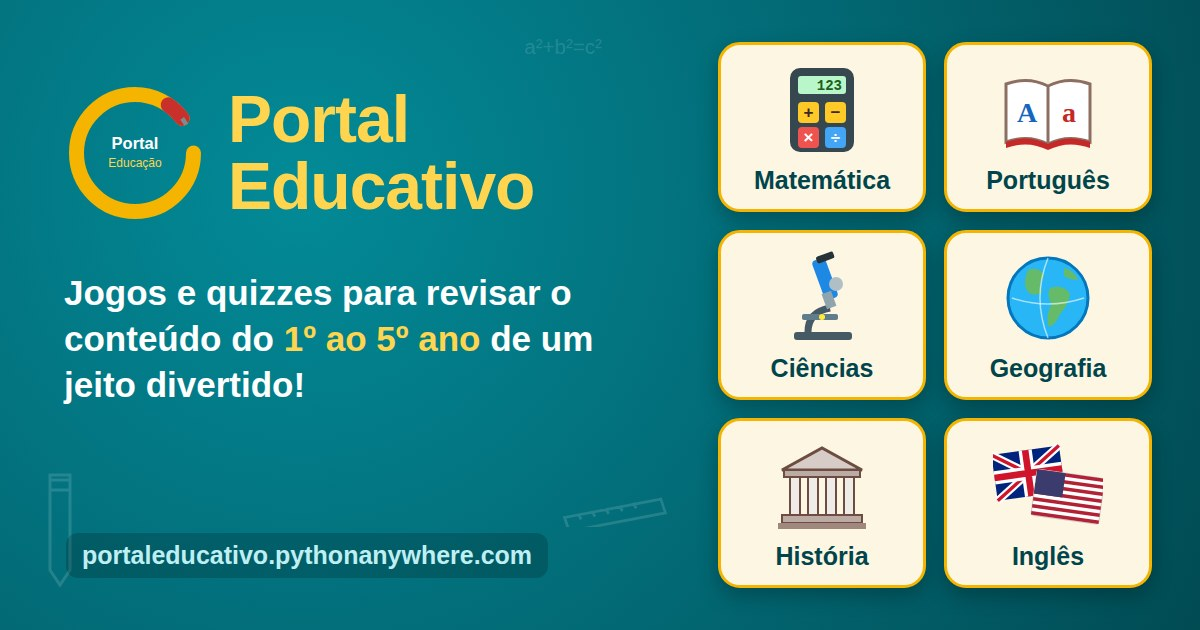
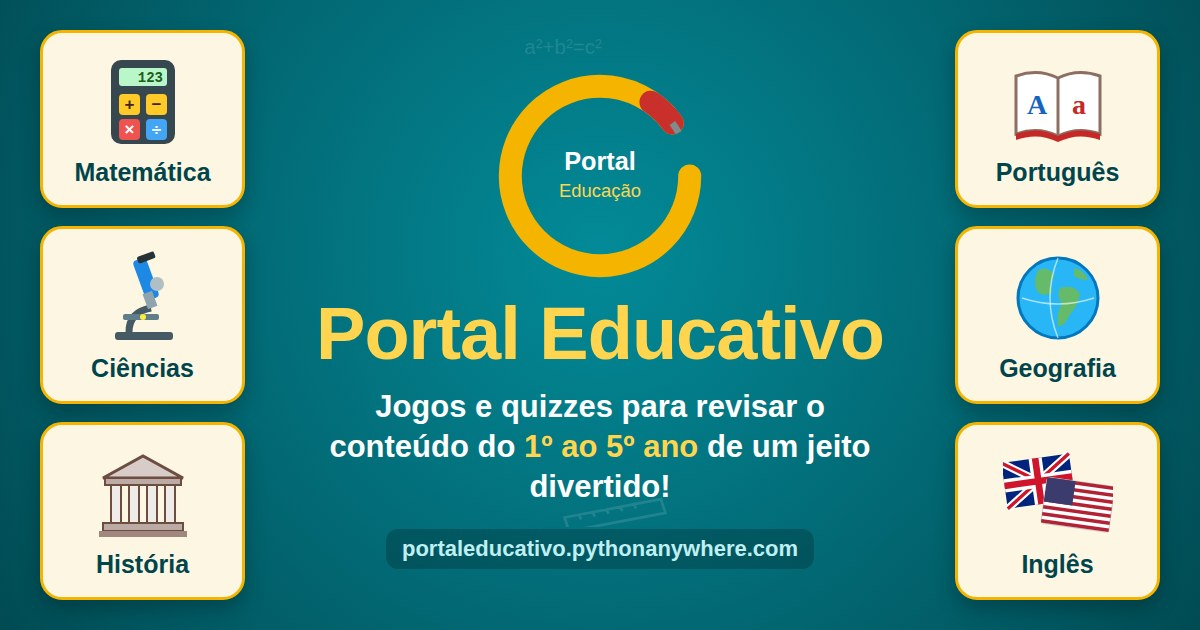
Cartao do WhatsApp: simbolo e nome no centro

diff --git a/core/templates/login.html b/core/templates/login.html
@@ -6,13 +6,16 @@
     <meta name="viewport" content="width=device-width, initial-scale=1.0">
     <title>Portal de Educação - Login</title>
     <meta name="description" content="Jogos e quizzes para revisar o conteúdo do 1º ao 5º ano: Matemática, Português, Ciências, Geografia, História e Inglês.">
-    <!-- Cartão de pré-visualização do link (WhatsApp, Facebook, Telegram...) -->
+    <!-- Cartão de pré-visualização do link (WhatsApp, Facebook, Telegram...)
+         Imagem atual: preview_whatsapp.jpg (símbolo e nome no centro).
+         Para voltar ao modelo anterior (símbolo à esquerda, matérias à direita),
+         troque 'img/preview_whatsapp.jpg' por 'img/preview_whatsapp_modelo1.jpg' na linha og:image. -->
     <meta property="og:type" content="website">
     <meta property="og:site_name" content="Portal Educativo">
     <meta property="og:title" content="Portal Educativo 🎮📚 — Jogos e quizzes do 1º ao 5º ano">
     <meta property="og:description" content="Jogos e quizzes para revisar o conteúdo do 1º ao 5º ano de um jeito divertido: Matemática, Português, Ciências, Geografia, História e Inglês!">
     <meta property="og:url" content="https://{{ request.get_host }}/">
-    <meta property="og:image" content="https://{{ request.get_host }}{% static 'img/preview_whatsapp.jpg' %}?v=2">
+    <meta property="og:image" content="https://{{ request.get_host }}{% static 'img/preview_whatsapp.jpg' %}?v=3">
     <meta property="og:image:type" content="image/jpeg">
     <meta property="og:image:width" content="1200">
     <meta property="og:image:height" content="630">
